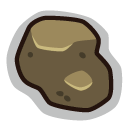
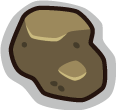
0.4
Asteroid body fixed, player body rotation bug

diff --git a/UltraMegaUltimateSpaceDefenderoftheGalaxy4/core/src/com/mygdx/game/MyGdxGame.java b/UltraMegaUltimateSpaceDefenderoftheGalaxy4/core/src/com/mygdx/game/MyGdxGame.java
@@ -3,12 +3,16 @@ package com.mygdx.game;
 import com.badlogic.gdx.ApplicationAdapter;
 import com.badlogic.gdx.Gdx;
 import com.badlogic.gdx.InputMultiplexer;
+import com.badlogic.gdx.graphics.Camera;
 import com.badlogic.gdx.graphics.GL20;
+import com.badlogic.gdx.graphics.OrthographicCamera;
 import com.badlogic.gdx.graphics.Texture;
 import com.badlogic.gdx.graphics.g2d.Sprite;
 import com.badlogic.gdx.graphics.g2d.SpriteBatch;
 import com.badlogic.gdx.graphics.g2d.TextureRegion;
+import com.badlogic.gdx.math.Matrix4;
 import com.badlogic.gdx.math.Vector2;
+import com.badlogic.gdx.physics.box2d.Box2DDebugRenderer;
 import com.badlogic.gdx.physics.box2d.World;
 import com.badlogic.gdx.scenes.scene2d.Stage;
 import com.badlogic.gdx.utils.viewport.ScreenViewport;
@@ -27,12 +31,20 @@ public class MyGdxGame extends ApplicationAdapter {
     SpriteBatch spriteBatch;
     TextureRegion background;
     AsteroidManager am;
+    private Camera camera;
+
+    public Box2DDebugRenderer b2dr;
 
 
     // TODO FIXTURE RADIUS
     
         @Override
         public void create () {
+
+            b2dr= new Box2DDebugRenderer();
+            camera=new OrthographicCamera(Gdx.graphics.getWidth(),Gdx.graphics.getHeight());
+            camera.position.x=0+Gdx.graphics.getWidth()/2;
+            camera.position.y=0+Gdx.graphics.getHeight()/2;
             stage=new Stage(new ScreenViewport());
             world= new World(new Vector2(0, 0), true);
             background = new TextureRegion(new Texture  ("Others/background.png"));
@@ -41,12 +53,13 @@ public class MyGdxGame extends ApplicationAdapter {
             controls= new Controls(player);
             am= new AsteroidManager(world,stage);
 
-            Asteroid as= new Asteroid((int)player.getX()/2,(int)player.getY(),new Vector2(200,0),world);
+
             spriteBatch= new SpriteBatch();
+
+
 
             stage.addActor(controls.getLeft().getBut());
             stage.addActor(controls.getRight().getBut());
-            stage.addActor(as);
 
             InputMultiplexer multiplex= new InputMultiplexer();
             multiplex.addProcessor(controls.getLeft());
@@ -57,6 +70,7 @@ public class MyGdxGame extends ApplicationAdapter {
 
 	@Override
 	public void render () {
+            camera.update();
         spriteBatch.begin();
 	    spriteBatch.draw(background,0,0,Gdx.graphics.getWidth(),Gdx.graphics.getHeight());
 	    spriteBatch.end();
@@ -64,7 +78,7 @@ public class MyGdxGame extends ApplicationAdapter {
         controls.act();
         stage.act();
         world.step(Gdx.graphics.getDeltaTime(), 6, 2);
-
+        b2dr.render(world, camera.combined);
         stage.draw();
 	}
 	

diff --git a/UltraMegaUltimateSpaceDefenderoftheGalaxy4/core/src/Classes/Actors/Player.java b/UltraMegaUltimateSpaceDefenderoftheGalaxy4/core/src/Classes/Actors/Player.java
@@ -8,12 +8,13 @@ import com.badlogic.gdx.math.Vector2;
 import com.badlogic.gdx.physics.box2d.Body;
 import com.badlogic.gdx.physics.box2d.BodyDef;
 import com.badlogic.gdx.physics.box2d.FixtureDef;
+import com.badlogic.gdx.physics.box2d.MassData;
 import com.badlogic.gdx.physics.box2d.PolygonShape;
 import com.badlogic.gdx.physics.box2d.World;
 import com.badlogic.gdx.scenes.scene2d.Actor;
 
 public class Player extends Actor {
-    private Sprite sprite;
+    public Sprite sprite;
     World world;
     BodyDef bd;
     Body body;
@@ -21,22 +22,22 @@ public class Player extends Actor {
 
     public Player(World w){
         this.world= w;
-        this.setOrigin(this.getWidth()/2, this.getHeight()/2);
         this.setX(Gdx.graphics.getWidth()/2);
         this.setY(Gdx.graphics.getHeight()/2);
         sprite= new Sprite(new Texture(Gdx.files.internal("Ships/player.png")));
         sprite.setBounds(Gdx.graphics.getWidth()/2,Gdx.graphics.getHeight()/2,88,83);
-
+        sprite.setOriginCenter();
         bd= new BodyDef();
         bd.type = BodyDef.BodyType.DynamicBody;
-        bd.position.set(getX(),getY());
+        bd.position.set(this.getWidth(),this.getHeight());
+
         body= world.createBody(bd);
         body.setTransform(getX(),getY(),0);
-
+        body.setFixedRotation(true);
 
         FixtureDef fd = new FixtureDef();
         fd.restitution=0.1f;
-       fd.friction=0.005f;
+        fd.friction=0.005f;
         //fd.density=0.00005f;
 
 
@@ -52,22 +53,21 @@ public class Player extends Actor {
         fd.shape = shape;
         body.createFixture(fd);
 
-
     }
 
     public void draw(Batch batch, float parentAlpha){
-        sprite.setRotation(body.getAngle());
-        sprite.setPosition(body.getPosition().x,body.getPosition().y);
+
         this.setPosition(body.getPosition().x,body.getPosition().y);
-        this.setRotation(body.getAngle());
+        this.setRotation(body.getAngle()/(float)(Math.PI/180));
+
+        sprite.setOriginCenter();
+
+        sprite.setRotation(body.getAngle()/(float)(Math.PI/180));
+        sprite.setPosition(body.getPosition().x,body.getPosition().y);
         sprite.draw(batch);
     }
 
     public Body getBody() {
         return body;
-    }
-
-    public void setBody(Body body) {
-        this.body = body;
     }
 }

diff --git a/UltraMegaUltimateSpaceDefenderoftheGalaxy4/core/src/Classes/Actors/Asteroid.java b/UltraMegaUltimateSpaceDefenderoftheGalaxy4/core/src/Classes/Actors/Asteroid.java
@@ -30,16 +30,20 @@ public class Asteroid extends Actor {
         createSprite();
 
         this.world= w;
-        this.setOrigin(this.getWidth()/2, this.getHeight()/2);
 
         bd= new BodyDef();
-        bd.type = BodyDef.BodyType.KinematicBody;
-        bd.position.set(getX(),getY());
-        body= world.createBody(bd);
-        body.setTransform(getX(),getY(),0);
+        bd.type = BodyDef.BodyType.DynamicBody;
 
+        bd.position.set(this.getWidth(),this.getHeight());
+        body= world.createBody(bd);
+
+        body.setFixedRotation(true);
         body.setLinearVelocity(direction);
-        body.setAngularVelocity(new Random().nextInt(150));
+        body.setAngularVelocity(new Random().nextInt(120));
+
+        if(new Random().nextInt(2)==0){
+            body.setAngularVelocity(-body.getAngularVelocity());
+        }
 
         FixtureDef fd = new FixtureDef();
         CircleShape cs= new CircleShape();
@@ -63,16 +67,19 @@ public class Asteroid extends Actor {
         this.sprite= sprites.get(rd.nextInt(sprites.size()));
 
         this.diameter=(rd.nextInt(150-50)+50);
+
         sprite.setBounds(this.getX(),this.getY(),diameter,diameter);
-        sprite.setOrigin(this.getWidth()/2,this.getHeight()/2);
         sprites.clear();
     }
 
     public void draw(Batch batch, float parentAlpha){
-        sprite.setRotation(body.getAngle());
-        sprite.setPosition(body.getPosition().x,body.getPosition().y);
         this.setPosition(body.getPosition().x,body.getPosition().y);
         this.setRotation(body.getAngle());
+
+        sprite.setOriginCenter();
+
+        sprite.setRotation(this.getRotation());
+        sprite.setPosition(body.getPosition().x-diameter/2,body.getPosition().y-diameter/2);
         sprite.draw(batch);
     }
 

diff --git a/UltraMegaUltimateSpaceDefenderoftheGalaxy4/core/src/Classes/Controller/Controls.java b/UltraMegaUltimateSpaceDefenderoftheGalaxy4/core/src/Classes/Controller/Controls.java
@@ -41,9 +41,9 @@ public class Controls {
         if(rightPressed && leftPressed){
             player.getBody().applyForceToCenter( new Vector2(x*50,y*50), true);
         }else if(rightPressed){
-            player.getBody().setTransform(player.getBody().getPosition(),player.getBody().getAngle()-4);
+            player.getBody().setTransform(player.getBody().getPosition(),player.getBody().getAngle()-(float)( 2*(Math.PI/180)));
         }else if(leftPressed){
-            player.getBody().setTransform(player.getBody().getPosition(),player.getBody().getAngle()+4);
+            player.getBody().setTransform(player.getBody().getPosition(),player.getBody().getAngle()+(float)( 2*(Math.PI/180)));
         }
 
     }

diff --git a/UltraMegaUltimateSpaceDefenderoftheGalaxy4/core/src/Classes/Others/AsteroidManager.java b/UltraMegaUltimateSpaceDefenderoftheGalaxy4/core/src/Classes/Others/AsteroidManager.java
@@ -12,7 +12,7 @@ import Classes.Actors.Asteroid;
 
 public class AsteroidManager {
     public ArrayList<Asteroid> asteroids= new ArrayList<Asteroid>();
-    public int generationRate=600;
+    public int generationRate=400;
     public Vector2 direction;
     public World w;
     public Stage s;
@@ -31,8 +31,6 @@ public class AsteroidManager {
 
 
         if(rd.nextInt(generationRate)==1){
-            //int posX= ;
-           // int posY= ;
 
             asteroids.add(new Asteroid(50,20,direction,w));
             s.addActor(asteroids.get(asteroids.size()-1));
